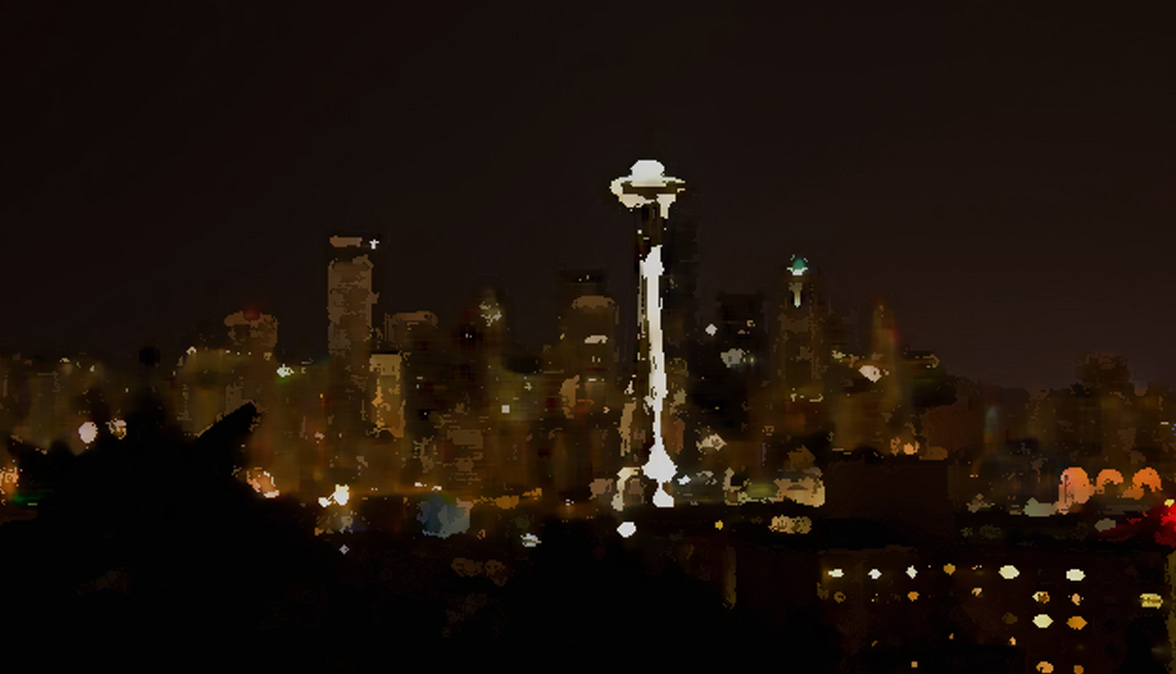
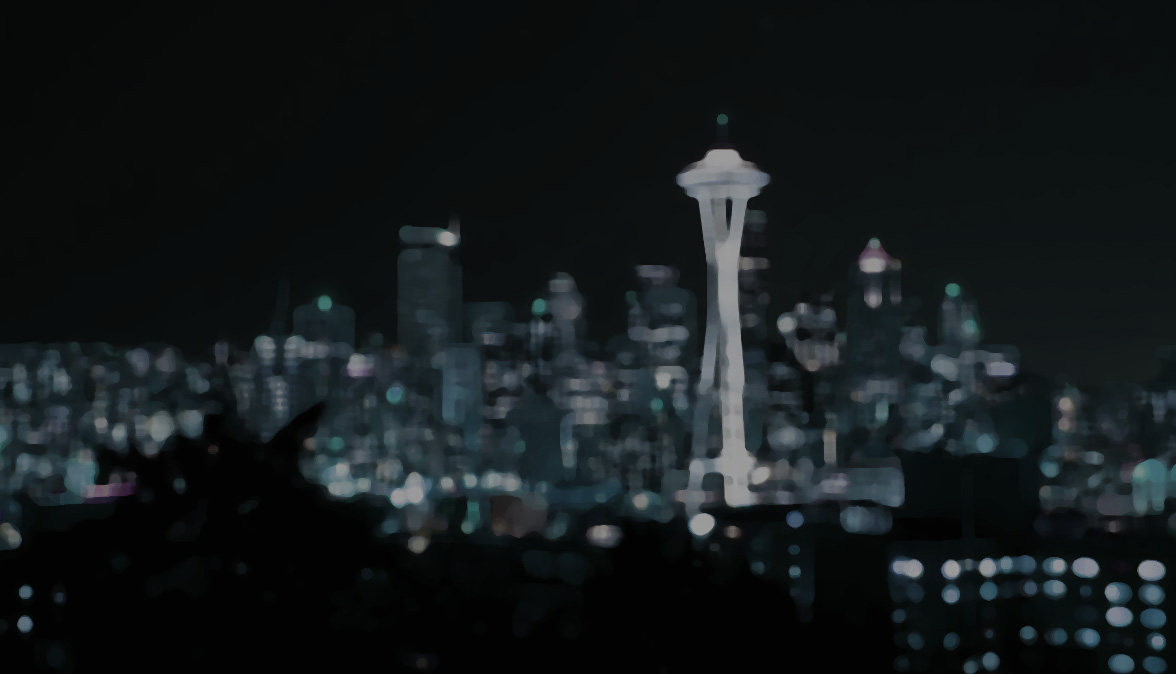
new background

diff --git a/src/assets/css/demo.css b/src/assets/css/demo.css
@@ -225,7 +225,7 @@
     min-height: 600px;
 }
 .demo-header-image{
-    background-image: url('../paper_img/city.jpg');
+    background-image: url('../paper_img/city_sea.jpg');
 }
 .demo-header .motto{
     color: #FFFFFF;
